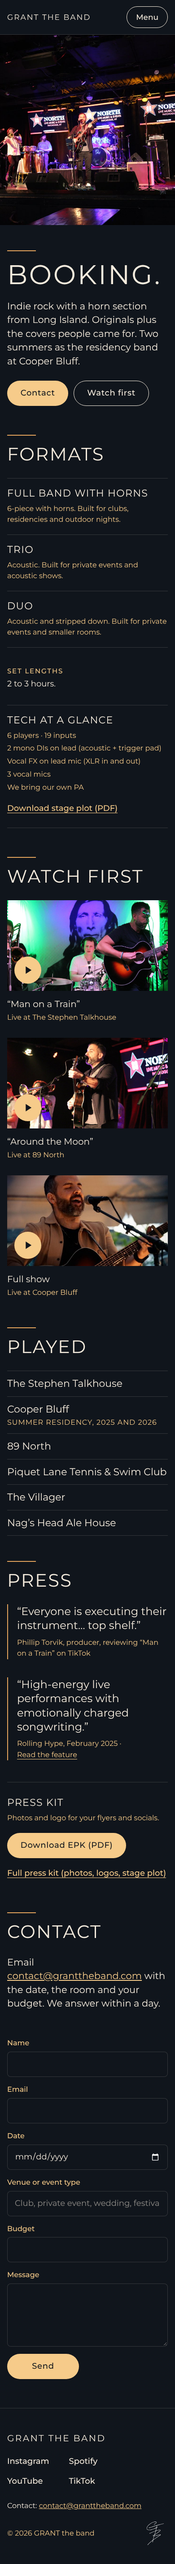
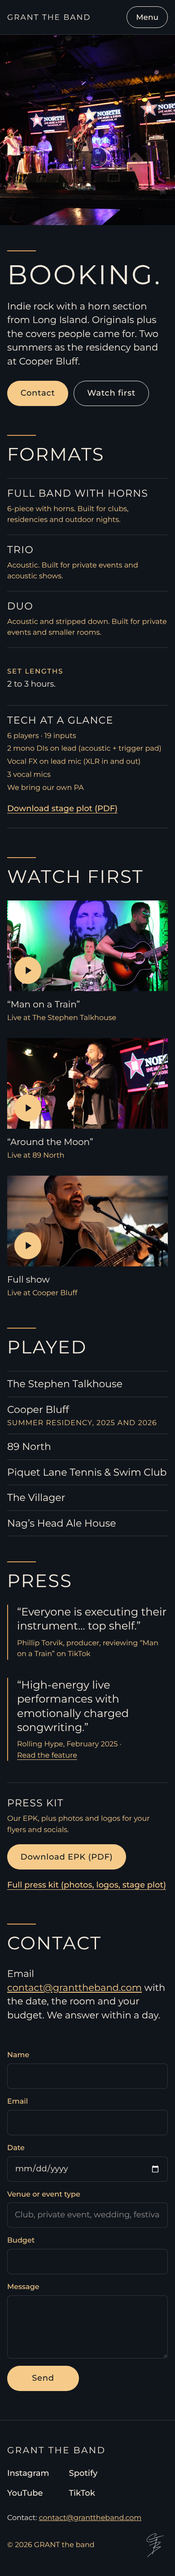
Press kit: EPK section titles in Montserrat Regular, stage plot points to /book; new /book copy line
Rebuilt the EPK and zip with scripts/make_press_kit.py.

Claude-Session: https://claude.ai/code/session_01W6jjmem6fid2ThtCrqmyVk

diff --git a/scripts/make_press_kit.py b/scripts/make_press_kit.py
@@ -52,7 +52,7 @@ def label(c,x,y,t,col=GOLD,size=7.5,sp=1.6):
     c.setFillColorRGB(*col); c.setFont('M',size); c._code.append('%s Tc'%sp); c.drawString(x,y,t); c._code.append('0 Tc')
 def title(c,x,y,t,size=20):
     c.setStrokeColorRGB(*AMBER); c.setLineWidth(1.5); c.line(x,y+size+8,x+32,y+size+8)
-    c.setFillColorRGB(*CREAM); c.setFont('L',size); c._code.append('%s Tc'%(size*0.06)); c.drawString(x,y,t); c._code.append('0 Tc')
+    c.setFillColorRGB(*CREAM); c.setFont('R',size); c._code.append('%s Tc'%(size*0.06)); c.drawString(x,y,t); c._code.append('0 Tc')
 def para(c,x,y,text,w,font='R',size=9.5,lead=14.5,col=CREAM):
     c.setFillColorRGB(*col); c.setFont(font,size); words=text.split(); line=''
     for wd in words:
@@ -142,7 +142,7 @@ for i,(t,s,u,im) in enumerate(clips):
     c.setFillColorRGB(*GOLD); c.setFont('R',7.5); c.drawString(x,cy-th-27,s)
 y=cy-cw*0.56-60
 title(c,M,y-18,'TECH')
-items=['6 players · 19 inputs','2 mono DIs on lead (acoustic + trigger pad)','Vocal FX on lead mic (XLR in and out)','3 vocal mics','We bring our own PA','Full stage plot included in this kit']
+items=['6 players · 19 inputs','2 mono DIs on lead (acoustic + trigger pad)','Vocal FX on lead mic (XLR in and out)','3 vocal mics','We bring our own PA','Stage plot: granttheband.com/book']
 ty=y-44
 for i,t in enumerate(items):
     x=M if i<3 else M+215; yy=ty-(i%3)*16

diff --git a/CLAUDE.md b/CLAUDE.md
@@ -184,7 +184,7 @@ Not on home: venue list, press quote, booking teaser. Those live on `/book`.
   1. “Everyone is executing their instrument… top shelf.” Phillip Torvik, producer, reviewing “Man on a Train” on TikTok ("on TikTok" is plain text, no link, by Noah's call).
   2. “High-energy live performances with emotionally charged songwriting.” Rolling Hype, February 2025 · Read the feature (links to https://rollinghype.com/grant-the-band-the-energy-the-originals-and-the-covers-you-cant-miss/, new tab, rel="noopener").
 - Stage plot: "Download stage plot (PDF)" under Tech at a glance, linking `/press/grant-the-band-stage-plot.pdf`. Renders only if that file exists.
-- "Press kit" block under Press: "Photos and logo for your flyers and socials.", primary button "Download EPK (PDF)" (`/press/grant-the-band-epk.pdf`, the 2-page EPK), then a secondary text link "Full press kit (photos, logos, stage plot)" (`/press/grant-the-band-press-kit.zip`). Each renders only if its file exists.
+- "Press kit" block under Press: "Our EPK, plus photos and logos for your flyers and socials.", primary button "Download EPK (PDF)" (`/press/grant-the-band-epk.pdf`, the 2-page EPK), then a secondary text link "Full press kit (photos, logos, stage plot)" (`/press/grant-the-band-press-kit.zip`). Each renders only if its file exists.
 - `scripts/make_press_kit.py` (Noah's) is the only way the EPK and press kit get built. Run it from the repo root (`pip install reportlab qrcode pillow`, then `python3 scripts/make_press_kit.py`; it downloads Montserrat and Reenie Beanie from raw.githubusercontent.com). It writes `public/press/grant-the-band-epk.pdf` (2 pages) and `public/press/grant-the-band-press-kit.zip`, which unzips to `GRANT-the-band-Press-Kit/` with the EPK, the stage plot, Photos/, Logos/ (monogram, light and dark wordmarks), Music/ (EP cover) and Bio.txt. Commit both outputs. Rerun it whenever venues, photos, press, formats or the tracklist change: its copy lives in the script, not in `site.ts`. `npm run build` never runs it. The stage plot PDF is Noah's file, used as-is.
 - Contact: "Email contact@granttheband.com with the date, the room and your budget. We answer within a day." Plus a Netlify form, fields in this order: name, email, date, venue or event type (placeholder "Club, private event, wedding, festival"), budget, message. Honeypot field is visually hidden and aria-hidden.
 - No fan signup block on /book. The page is for buyers only.
